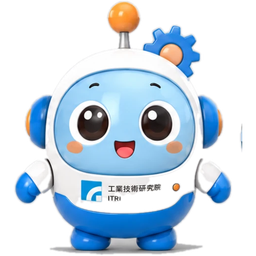
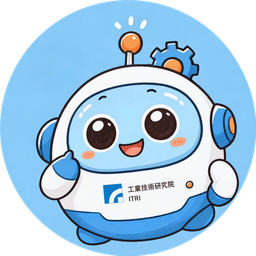
批次 143：後台助理的頭像換成動態米亞
Claude-Session: https://claude.ai/code/session_01JJNt8NLT1U5yb7DTSCWkxF

diff --git a/public/mia-assistant.js b/public/mia-assistant.js
@@ -22,6 +22,17 @@
   ];
   var CHIPS = ['這幾天記者問了什麼？', '最近有哪些活動？', '報名狀況怎麼樣？', 'AI 追蹤最近表現如何？'];
 
+  // 頭像：右下角的按鈕是會眨眼的動態圖，查資料時對話框裡是拿放大鏡的動態圖；對話框標題與「減少動態效果」的使用者用靜態圖。
+  var STILL = '/mia-avatar.png', IDLE = '/mia-avatar-idle.webp', BUSY = '/mia-avatar-busy.webp';
+  var reduced = false;
+  try { reduced = window.matchMedia('(prefers-reduced-motion: reduce)').matches; } catch (e) {}
+  function avatar(src, alt) {
+    var img = document.createElement('img');
+    img.src = reduced ? STILL : src; img.alt = alt || '';
+    img.onerror = function () { img.onerror = null; img.src = STILL; }; // 動態圖載入失敗就退回靜態圖
+    return img;
+  }
+
   function pwd() { try { return sessionStorage.getItem('itri_pwd') || ''; } catch (e) { return ''; } }
   function load() { try { return JSON.parse(sessionStorage.getItem(STORE_KEY) || '[]') || []; } catch (e) { return []; } }
   function save() { try { sessionStorage.setItem(STORE_KEY, JSON.stringify(state.log.slice(-40))); } catch (e) {} }
@@ -33,6 +44,8 @@
     '#mia-fab{position:fixed;right:18px;bottom:18px;width:68px;height:68px;border-radius:50%;border:3px solid #fff;background:#dbeafe;box-shadow:0 6px 20px rgba(15,23,42,.28);cursor:pointer;padding:0;z-index:9000;display:none;overflow:hidden;transition:transform .15s}',
     '#mia-fab:hover{transform:scale(1.06)}',
     '#mia-fab img{width:100%;height:100%;object-fit:cover;display:block}',
+    '.mia-m.busy{display:flex;align-items:center;gap:8px;padding:6px 12px 6px 6px}',
+    '.mia-m.busy img{width:44px;height:44px;border-radius:50%;flex:none}',
     '#mia-panel{position:fixed;right:18px;bottom:96px;width:372px;max-width:calc(100vw - 24px);height:540px;max-height:calc(100vh - 120px);background:#fff;border-radius:18px;box-shadow:0 14px 48px rgba(15,23,42,.3);z-index:9001;display:none;flex-direction:column;overflow:hidden;font-family:system-ui,-apple-system,"Noto Sans TC","PingFang TC","Microsoft JhengHei",sans-serif;color:#0f172a}',
     '#mia-panel.open{display:flex}',
     '#mia-head{display:flex;align-items:center;gap:10px;padding:10px 12px;background:#1d4ed8;color:#fff}',
@@ -80,13 +93,12 @@
 
     fab = el('button');
     fab.id = 'mia-fab'; fab.type = 'button'; fab.title = '問米亞'; fab.setAttribute('aria-label', '開啟後台小幫手米亞');
-    var img = document.createElement('img'); img.src = '/mia-avatar.png'; img.alt = '米亞';
-    fab.appendChild(img);
+    fab.appendChild(avatar(IDLE, '米亞'));
     fab.onclick = toggle;
 
     panel = el('div'); panel.id = 'mia-panel';
     var head = el('div'); head.id = 'mia-head';
-    var himg = document.createElement('img'); himg.src = '/mia-avatar.png'; himg.alt = '';
+    var himg = document.createElement('img'); himg.src = STILL; himg.alt = '';
     var t = el('div', 't', '米亞・後台小幫手'); t.appendChild(el('small', '', '可以問活動、報名、記者名單、問答與 AI 追蹤；也能教我記事情'));
     var clear = el('button', '', '清除'); clear.type = 'button'; clear.onclick = function () { state.log = []; save(); render(); };
     var close = el('button', '', '✕'); close.type = 'button'; close.setAttribute('aria-label', '關閉'); close.onclick = toggle;
@@ -134,7 +146,7 @@
       if (m.role === 'card') return msgs.appendChild(cardEl(m, i));
       msgs.appendChild(el('div', 'mia-m ' + (m.role === 'user' ? 'u' : 'a') + (m.err ? ' err' : ''), m.text));
     });
-    if (state.busy) msgs.appendChild(el('div', 'mia-m a', '米亞查詢中…'));
+    if (state.busy) { var b = el('div', 'mia-m a busy'); b.appendChild(avatar(BUSY, '')); b.appendChild(el('span', '', '米亞查詢中…')); msgs.appendChild(b); }
     msgs.scrollTop = msgs.scrollHeight;
     sendBtn.disabled = state.busy;
   }

diff --git a/docs/batches/11-batch-141.md b/docs/batches/11-batch-141.md
@@ -63,3 +63,20 @@
 - 沒有「記憶列表」畫面：想看她記了什麼，直接問「你記得哪些事？」（它們都在她的系統提示裡）；想看歷史去試算表的 `assistant_memory` 分頁。
 
 **驗證**：`test/test-batch141.mjs` 補記憶的 17 項（確認卡不寫入、確認才寫入、重複／過長／滿 30 條、沒密碼 401、進系統提示、忘掉、讀不到時的行為），模型與 thinking 的斷言改成 Haiku 5.5。
+
+
+## 批次 143：後台助理的頭像換成動態米亞（2026-10-16）
+
+**起因**：朱朱給了一支 10 秒的米亞動畫（960×960，前 1.8 秒是圓形構圖的米亞微笑、眨眼，之後拿放大鏡找資料、最後比 V 打勾），說「圖示換成這個，有動態又比較可愛」。
+
+**做了什麼**（只動頭像，後台助理的功能與安全設計沒有變）
+- **右下角按鈕**：`public/mia-avatar-idle.webp`——影片 0～1.8 秒，圓形去外框、縮成 160px、12fps、來回播放（首尾接得起來）。約 220 KB。
+- **「米亞查詢中…」**：`public/mia-avatar-busy.webp`——影片 3.0～5.5 秒拿放大鏡的那段，112px，顯示在查詢中的對話泡泡裡（等 AI 查資料的幾秒有東西看）。約 210 KB。
+- **對話框標題**與**靜態備援**：`public/mia-avatar.png`（影片 1.4 秒的笑臉，沒有對話框，256px，圓形透明底）。
+- `public/mia-assistant.js`：動態圖載入失敗退回靜態圖；使用者系統設了「減少動態效果」（`prefers-reduced-motion`）一律用靜態圖。
+
+**怎麼做的（以後要換動畫的人看這裡）**：用 ffmpeg 把影片拆成 PNG 影格，用 Pillow 套圓形透明遮罩（半徑 0.485，避開影片圓框邊緣的白邊）、縮圖、每兩格取一格，存成動態 WebP（quality 70）。影片本體**沒有**放進 repo（8.6 MB，頭像用不到），原檔在朱朱手上。
+
+**沒做**：影片最後「比 V＋打勾」那一段沒用到；之後如果助理要有「完成了」的回饋，可以接那一段。
+
+**驗證**：`test/test-batch141.mjs` 補兩項（兩個 WebP 檔頭正確且各小於 400 KB；程式用對圖、減少動態效果與載入失敗的退路）。另用 Chromium 實際看過：按鈕在眨眼，查詢中換成放大鏡版本。

diff --git a/docs/batches/README.md b/docs/batches/README.md
@@ -161,3 +161,4 @@
 | 140 | 記者名單——名片翻拍（拍照 → 讀出欄位 → 比對名單 → 新增或更新）（2026-10-16） | [10-batch-117.md](10-batch-117.md) |
 | 141 | 後台助理——右下角的胖胖米亞，可以問後台資料、請她提議新增（2026-10-16） | [11-batch-141.md](11-batch-141.md) |
 | 142 | 後台助理改用 Haiku 5.5，並加上「教她記事情」的記憶（2026-10-16） | [11-batch-141.md](11-batch-141.md) |
+| 143 | 後台助理的頭像換成動態米亞（2026-10-16） | [11-batch-141.md](11-batch-141.md) |
